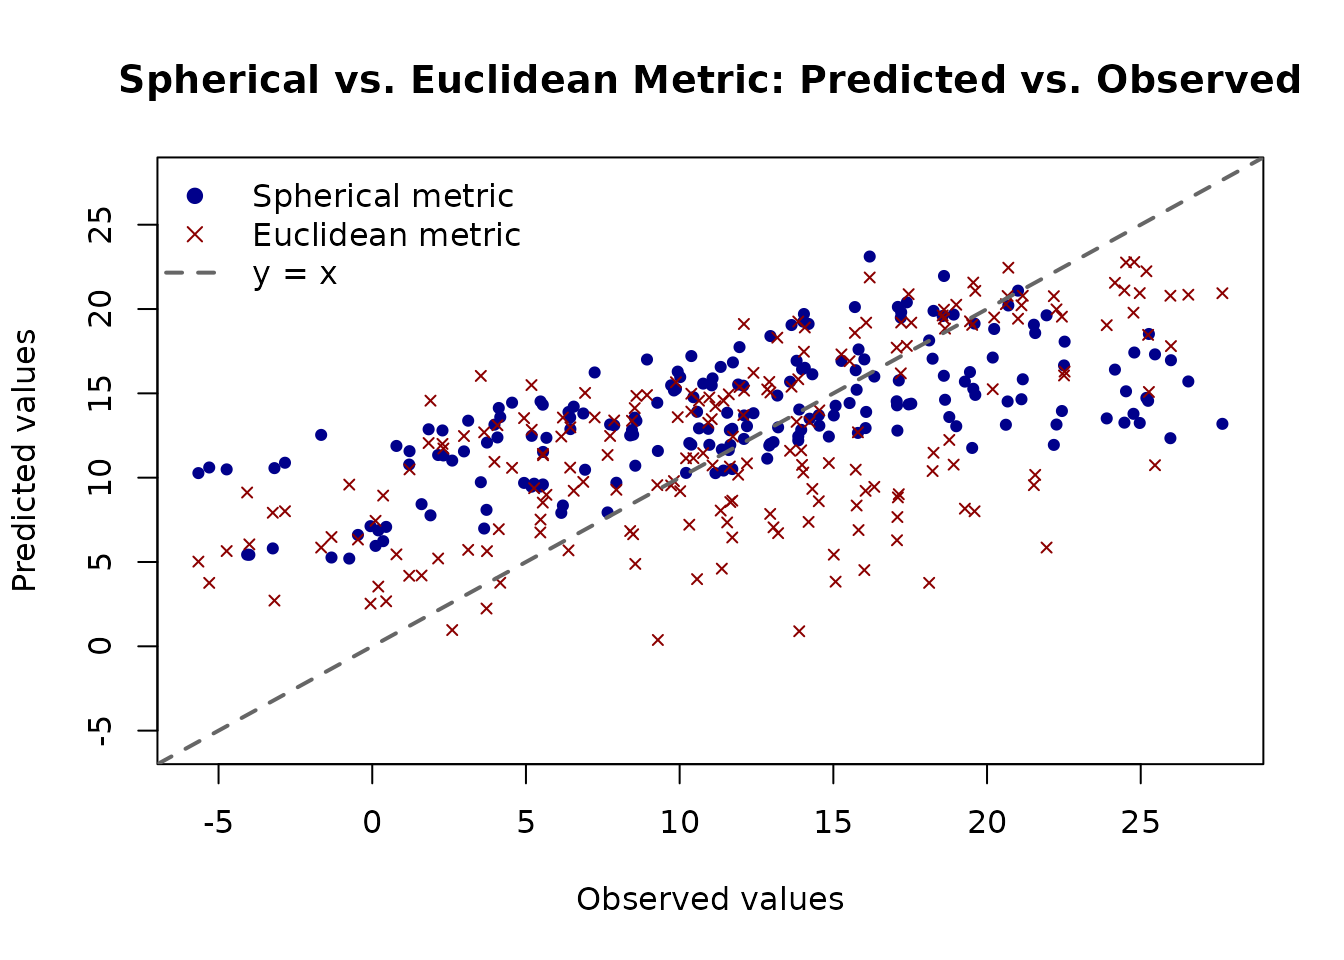
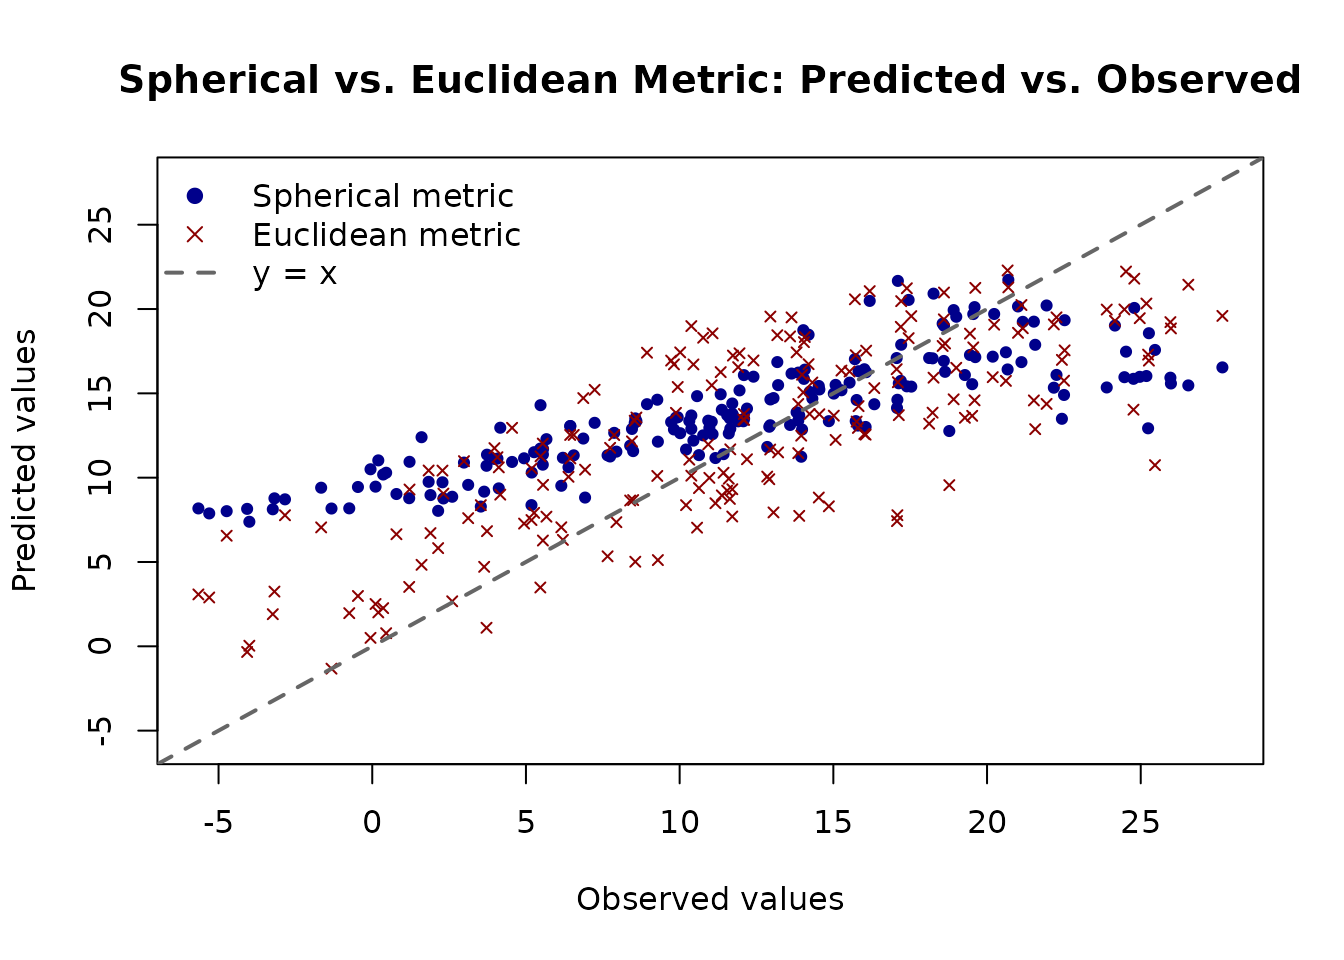
Deploying to gh-pages from @ andy-iskauskas/AddiVortes@3cba36b295d2f30c0638bb70713d981cd3f04d80 🚀

diff --git a/articles/categorical.html b/articles/categorical.html
@@ -62,7 +62,7 @@
                         <h4 data-toc-skip class="author">John Paul
 Gosling and Adam Stone</h4>
             
-            <h4 data-toc-skip class="date">2026-06-02</h4>
+            <h4 data-toc-skip class="date">2026-06-03</h4>
       
       <small class="dont-index">Source: <a href="https://github.com/johnpaulgosling/AddiVortes/blob/main/vignettes/categorical.Rmd" class="external-link"><code>vignettes/categorical.Rmd</code></a></small>
       <div class="d-none name"><code>categorical.Rmd</code></div>
@@ -265,7 +265,7 @@ the data frame with character or factor columns directly.
 <span><span class="op">)</span></span></code></pre></div>
 <div class="sourceCode" id="cb5"><pre class="downlit sourceCode r">
 <code class="sourceCode R"><span><span class="fu"><a href="https://rdrr.io/r/base/cat.html" class="external-link">cat</a></span><span class="op">(</span><span class="st">"In-sample RMSE:"</span>, <span class="fu"><a href="https://rdrr.io/r/base/Round.html" class="external-link">round</a></span><span class="op">(</span><span class="va">fit</span><span class="op">$</span><span class="va">inSampleRmse</span>, <span class="fl">3</span><span class="op">)</span>, <span class="st">"\n"</span><span class="op">)</span></span>
-<span><span class="co">#&gt; In-sample RMSE: 2.423</span></span>
+<span><span class="co">#&gt; In-sample RMSE: 2.393</span></span>
 <span></span>
 <span><span class="co"># The catEncoding field records how the encoding was built</span></span>
 <span><span class="fu"><a href="https://rdrr.io/r/base/cat.html" class="external-link">cat</a></span><span class="op">(</span><span class="st">"\nReference levels used:\n"</span><span class="op">)</span></span>
@@ -298,7 +298,7 @@ is applied consistently.</p>
 <div class="sourceCode" id="cb7"><pre class="downlit sourceCode r">
 <code class="sourceCode R"><span><span class="va">rmse_test</span> <span class="op">&lt;-</span> <span class="fu"><a href="https://rdrr.io/r/base/MathFun.html" class="external-link">sqrt</a></span><span class="op">(</span><span class="fu"><a href="https://rdrr.io/r/base/mean.html" class="external-link">mean</a></span><span class="op">(</span><span class="op">(</span><span class="va">y_test</span> <span class="op">-</span> <span class="va">preds</span><span class="op">)</span><span class="op">^</span><span class="fl">2</span><span class="op">)</span><span class="op">)</span></span>
 <span><span class="fu"><a href="https://rdrr.io/r/base/cat.html" class="external-link">cat</a></span><span class="op">(</span><span class="st">"Test RMSE:"</span>, <span class="fu"><a href="https://rdrr.io/r/base/Round.html" class="external-link">round</a></span><span class="op">(</span><span class="va">rmse_test</span>, <span class="fl">3</span><span class="op">)</span>, <span class="st">"\n"</span><span class="op">)</span></span>
-<span><span class="co">#&gt; Test RMSE: 2.867</span></span></code></pre></div>
+<span><span class="co">#&gt; Test RMSE: 2.883</span></span></code></pre></div>
 <div class="sourceCode" id="cb8"><pre class="downlit sourceCode r">
 <code class="sourceCode R"><span><span class="co"># Colour observations by product category</span></span>
 <span><span class="va">prod_cols</span> <span class="op">&lt;-</span> <span class="fu"><a href="https://rdrr.io/r/base/c.html" class="external-link">c</a></span><span class="op">(</span><span class="st">"Basic"</span> <span class="op">=</span> <span class="st">"steelblue"</span>, <span class="st">"Premium"</span> <span class="op">=</span> <span class="st">"darkorange"</span>, <span class="st">"Deluxe"</span> <span class="op">=</span> <span class="st">"darkgreen"</span><span class="op">)</span></span>
@@ -342,7 +342,7 @@ a previously unseen level and falls back to the baseline.</p>
 <span>  <span class="st">"Prediction for unseen category 'Luxury' (treated as 'Basic'):"</span>,</span>
 <span>  <span class="fu"><a href="https://rdrr.io/r/base/Round.html" class="external-link">round</a></span><span class="op">(</span><span class="va">pred_new</span>, <span class="fl">3</span><span class="op">)</span>, <span class="st">"\n"</span></span>
 <span><span class="op">)</span></span>
-<span><span class="co">#&gt; Prediction for unseen category 'Luxury' (treated as 'Basic'): 25.538</span></span></code></pre></div>
+<span><span class="co">#&gt; Prediction for unseen category 'Luxury' (treated as 'Basic'): 25.783</span></span></code></pre></div>
 </div>
 <div class="section level3">
 <h3 id="effect-of-catscaling">8. Effect of <code>catScaling</code><a class="anchor" aria-label="anchor" href="#effect-of-catscaling"></a>
@@ -366,9 +366,9 @@ differences) — and compare their test RMSEs.</p>
 <code class="sourceCode R"><span><span class="va">preds_cs2</span> <span class="op">&lt;-</span> <span class="fu"><a href="https://rdrr.io/r/stats/predict.html" class="external-link">predict</a></span><span class="op">(</span><span class="va">fit_cs2</span>, <span class="va">x_test</span>, showProgress <span class="op">=</span> <span class="cn">FALSE</span><span class="op">)</span></span></code></pre></div>
 <div class="sourceCode" id="cb14"><pre class="downlit sourceCode r">
 <code class="sourceCode R"><span><span class="fu"><a href="https://rdrr.io/r/base/cat.html" class="external-link">cat</a></span><span class="op">(</span><span class="st">"Test RMSE (catScaling = 1):"</span>, <span class="fu"><a href="https://rdrr.io/r/base/Round.html" class="external-link">round</a></span><span class="op">(</span><span class="va">rmse_test</span>, <span class="fl">3</span><span class="op">)</span>, <span class="st">"\n"</span><span class="op">)</span></span>
-<span><span class="co">#&gt; Test RMSE (catScaling = 1): 2.867</span></span>
+<span><span class="co">#&gt; Test RMSE (catScaling = 1): 2.883</span></span>
 <span><span class="fu"><a href="https://rdrr.io/r/base/cat.html" class="external-link">cat</a></span><span class="op">(</span><span class="st">"Test RMSE (catScaling = 2):"</span>, <span class="fu"><a href="https://rdrr.io/r/base/Round.html" class="external-link">round</a></span><span class="op">(</span><span class="fu"><a href="https://rdrr.io/r/base/MathFun.html" class="external-link">sqrt</a></span><span class="op">(</span><span class="fu"><a href="https://rdrr.io/r/base/mean.html" class="external-link">mean</a></span><span class="op">(</span><span class="op">(</span><span class="va">y_test</span> <span class="op">-</span> <span class="va">preds_cs2</span><span class="op">)</span><span class="op">^</span><span class="fl">2</span><span class="op">)</span><span class="op">)</span>, <span class="fl">3</span><span class="op">)</span>, <span class="st">"\n"</span><span class="op">)</span></span>
-<span><span class="co">#&gt; Test RMSE (catScaling = 2): 2.819</span></span></code></pre></div>
+<span><span class="co">#&gt; Test RMSE (catScaling = 2): 2.935</span></span></code></pre></div>
 <p>In this example, the true response has substantial category effects
 (up to ±20 units for product type) relative to the continuous effects,
 so increasing <code>catScaling</code> may help the model focus more on

diff --git a/articles/spherical.html b/articles/spherical.html
@@ -62,7 +62,7 @@
                         <h4 data-toc-skip class="author">Andy Iskauskas
 and John Paul Gosling</h4>
             
-            <h4 data-toc-skip class="date">2026-06-02</h4>
+            <h4 data-toc-skip class="date">2026-06-03</h4>
       
       <small class="dont-index">Source: <a href="https://github.com/johnpaulgosling/AddiVortes/blob/main/vignettes/spherical.Rmd" class="external-link"><code>vignettes/spherical.Rmd</code></a></small>
       <div class="d-none name"><code>spherical.Rmd</code></div>
@@ -192,7 +192,7 @@ cells.</p>
 <span><span class="op">)</span></span></code></pre></div>
 <div class="sourceCode" id="cb5"><pre class="downlit sourceCode r">
 <code class="sourceCode R"><span><span class="fu"><a href="https://rdrr.io/r/base/cat.html" class="external-link">cat</a></span><span class="op">(</span><span class="st">"In-sample RMSE (spherical metric):"</span>, <span class="fu"><a href="https://rdrr.io/r/base/Round.html" class="external-link">round</a></span><span class="op">(</span><span class="va">fit_sph</span><span class="op">$</span><span class="va">inSampleRmse</span>, <span class="fl">3</span><span class="op">)</span>, <span class="st">"\n"</span><span class="op">)</span></span>
-<span><span class="co">#&gt; In-sample RMSE (spherical metric): 1.214</span></span></code></pre></div>
+<span><span class="co">#&gt; In-sample RMSE (spherical metric): 1.284</span></span></code></pre></div>
 <p>For comparison, we fit an identical model using the default
 <strong>Euclidean</strong> metric. This model treats latitude and
 longitude as ordinary continuous variables and will not handle the
@@ -209,7 +209,7 @@ wrap-around near ±π correctly.</p>
 <span><span class="op">)</span></span></code></pre></div>
 <div class="sourceCode" id="cb7"><pre class="downlit sourceCode r">
 <code class="sourceCode R"><span><span class="fu"><a href="https://rdrr.io/r/base/cat.html" class="external-link">cat</a></span><span class="op">(</span><span class="st">"In-sample RMSE (Euclidean metric):"</span>, <span class="fu"><a href="https://rdrr.io/r/base/Round.html" class="external-link">round</a></span><span class="op">(</span><span class="va">fit_euc</span><span class="op">$</span><span class="va">inSampleRmse</span>, <span class="fl">3</span><span class="op">)</span>, <span class="st">"\n"</span><span class="op">)</span></span>
-<span><span class="co">#&gt; In-sample RMSE (Euclidean metric): 1.342</span></span></code></pre></div>
+<span><span class="co">#&gt; In-sample RMSE (Euclidean metric): 1.377</span></span></code></pre></div>
 </div>
 <div class="section level3">
 <h3 id="out-of-sample-evaluation">5. Out-of-Sample Evaluation<a class="anchor" aria-label="anchor" href="#out-of-sample-evaluation"></a>
@@ -236,9 +236,9 @@ highlight where the Euclidean metric is most likely to struggle.</p>
 <span><span class="va">rmse_euc</span> <span class="op">&lt;-</span> <span class="fu"><a href="https://rdrr.io/r/base/MathFun.html" class="external-link">sqrt</a></span><span class="op">(</span><span class="fu"><a href="https://rdrr.io/r/base/mean.html" class="external-link">mean</a></span><span class="op">(</span><span class="op">(</span><span class="va">y_test</span> <span class="op">-</span> <span class="va">preds_euc</span><span class="op">)</span><span class="op">^</span><span class="fl">2</span><span class="op">)</span><span class="op">)</span></span>
 <span></span>
 <span><span class="fu"><a href="https://rdrr.io/r/base/cat.html" class="external-link">cat</a></span><span class="op">(</span><span class="st">"Test RMSE — spherical metric:"</span>, <span class="fu"><a href="https://rdrr.io/r/base/Round.html" class="external-link">round</a></span><span class="op">(</span><span class="va">rmse_sph</span>, <span class="fl">3</span><span class="op">)</span>, <span class="st">"\n"</span><span class="op">)</span></span>
-<span><span class="co">#&gt; Test RMSE — spherical metric: 6.223</span></span>
+<span><span class="co">#&gt; Test RMSE — spherical metric: 5.536</span></span>
 <span><span class="fu"><a href="https://rdrr.io/r/base/cat.html" class="external-link">cat</a></span><span class="op">(</span><span class="st">"Test RMSE — Euclidean metric:"</span>, <span class="fu"><a href="https://rdrr.io/r/base/Round.html" class="external-link">round</a></span><span class="op">(</span><span class="va">rmse_euc</span>, <span class="fl">3</span><span class="op">)</span>, <span class="st">"\n"</span><span class="op">)</span></span>
-<span><span class="co">#&gt; Test RMSE — Euclidean metric: 6.035</span></span></code></pre></div>
+<span><span class="co">#&gt; Test RMSE — Euclidean metric: 4.82</span></span></code></pre></div>
 </div>
 <div class="section level3">
 <h3 id="visualising-predictions">6. Visualising Predictions<a class="anchor" aria-label="anchor" href="#visualising-predictions"></a>

diff --git a/reference/AddiVortes-package.html b/reference/AddiVortes-package.html
@@ -80,7 +80,8 @@ tessellations. Journal of Computational and Graphical Statistics.</p>
     <div class="section level2">
     <h2 id="author">Author<a class="anchor" aria-label="anchor" href="#author"></a></h2>
     <p><strong>Maintainer</strong>: John Paul Gosling <a href="mailto:[email redacted]">[email redacted]</a> (<a href="https://orcid.org/0000-0002-4072-3022" class="external-link">ORCID</a>)</p>
-<p>Authors:</p><ul><li><p>Adam Stone <a href="mailto:[email redacted]">[email redacted]</a> (<a href="https://orcid.org/0009-0004-0058-6117" class="external-link">ORCID</a>)</p></li>
+<p>Authors:</p><ul><li><p>John Paul Gosling <a href="mailto:[email redacted]">[email redacted]</a> (<a href="https://orcid.org/0000-0002-4072-3022" class="external-link">ORCID</a>)</p></li>
+<li><p>Adam Stone <a href="mailto:[email redacted]">[email redacted]</a> (<a href="https://orcid.org/0009-0004-0058-6117" class="external-link">ORCID</a>)</p></li>
 </ul></div>
 
   </main><aside class="col-md-3"><nav id="toc" aria-label="Table of contents"><h2>On this page</h2>

diff --git a/articles/introduction.html b/articles/introduction.html
@@ -62,7 +62,7 @@
                         <h4 data-toc-skip class="author">John Paul
 Gosling and Adam Stone</h4>
             
-            <h4 data-toc-skip class="date">2026-06-02</h4>
+            <h4 data-toc-skip class="date">2026-06-03</h4>
       
       <small class="dont-index">Source: <a href="https://github.com/johnpaulgosling/AddiVortes/blob/main/vignettes/introduction.Rmd" class="external-link"><code>vignettes/introduction.Rmd</code></a></small>
       <div class="d-none name"><code>introduction.Rmd</code></div>

diff --git a/articles/prediction.html b/articles/prediction.html
@@ -62,7 +62,7 @@
                         <h4 data-toc-skip class="author">John Paul
 Gosling and Adam Stone</h4>
             
-            <h4 data-toc-skip class="date">2026-06-02</h4>
+            <h4 data-toc-skip class="date">2026-06-03</h4>
       
       <small class="dont-index">Source: <a href="https://github.com/johnpaulgosling/AddiVortes/blob/main/vignettes/prediction.Rmd" class="external-link"><code>vignettes/prediction.Rmd</code></a></small>
       <div class="d-none name"><code>prediction.Rmd</code></div>

diff --git a/articles/categorical.md b/articles/categorical.md
@@ -175,7 +175,7 @@ fit <- AddiVortes(
 ``` r
 
 cat("In-sample RMSE:", round(fit$inSampleRmse, 3), "\n")
-#> In-sample RMSE: 2.423
+#> In-sample RMSE: 2.393
 
 # The catEncoding field records how the encoding was built
 cat("\nReference levels used:\n")
@@ -214,7 +214,7 @@ preds <- predict(fit, x_test, showProgress = FALSE)
 
 rmse_test <- sqrt(mean((y_test - preds)^2))
 cat("Test RMSE:", round(rmse_test, 3), "\n")
-#> Test RMSE: 2.867
+#> Test RMSE: 2.883
 ```
 
 ``` r
@@ -270,7 +270,7 @@ cat(
   "Prediction for unseen category 'Luxury' (treated as 'Basic'):",
   round(pred_new, 3), "\n"
 )
-#> Prediction for unseen category 'Luxury' (treated as 'Basic'): 25.538
+#> Prediction for unseen category 'Luxury' (treated as 'Basic'): 25.783
 ```
 
 ### 8. Effect of `catScaling`
@@ -302,9 +302,9 @@ preds_cs2 <- predict(fit_cs2, x_test, showProgress = FALSE)
 ``` r
 
 cat("Test RMSE (catScaling = 1):", round(rmse_test, 3), "\n")
-#> Test RMSE (catScaling = 1): 2.867
+#> Test RMSE (catScaling = 1): 2.883
 cat("Test RMSE (catScaling = 2):", round(sqrt(mean((y_test - preds_cs2)^2)), 3), "\n")
-#> Test RMSE (catScaling = 2): 2.819
+#> Test RMSE (catScaling = 2): 2.935
 ```
 
 In this example, the true response has substantial category effects (up

diff --git a/articles/spherical.md b/articles/spherical.md
@@ -127,7 +127,7 @@ fit_sph <- AddiVortes(
 ``` r
 
 cat("In-sample RMSE (spherical metric):", round(fit_sph$inSampleRmse, 3), "\n")
-#> In-sample RMSE (spherical metric): 1.214
+#> In-sample RMSE (spherical metric): 1.284
 ```
 
 For comparison, we fit an identical model using the default
@@ -151,7 +151,7 @@ fit_euc <- AddiVortes(
 ``` r
 
 cat("In-sample RMSE (Euclidean metric):", round(fit_euc$inSampleRmse, 3), "\n")
-#> In-sample RMSE (Euclidean metric): 1.342
+#> In-sample RMSE (Euclidean metric): 1.377
 ```
 
 ### 5. Out-of-Sample Evaluation
@@ -186,9 +186,9 @@ rmse_sph <- sqrt(mean((y_test - preds_sph)^2))
 rmse_euc <- sqrt(mean((y_test - preds_euc)^2))
 
 cat("Test RMSE — spherical metric:", round(rmse_sph, 3), "\n")
-#> Test RMSE — spherical metric: 6.223
+#> Test RMSE — spherical metric: 5.536
 cat("Test RMSE — Euclidean metric:", round(rmse_euc, 3), "\n")
-#> Test RMSE — Euclidean metric: 6.035
+#> Test RMSE — Euclidean metric: 4.82
 ```
 
 ### 6. Visualising Predictions

diff --git a/reference/AddiVortes-package.md b/reference/AddiVortes-package.md
@@ -41,5 +41,8 @@ Statistics.
 
 Authors:
 
+- John Paul Gosling <[email redacted]>
+  ([ORCID](https://orcid.org/0000-0002-4072-3022))
+
 - Adam Stone <[email redacted]>
   ([ORCID](https://orcid.org/0009-0004-0058-6117))